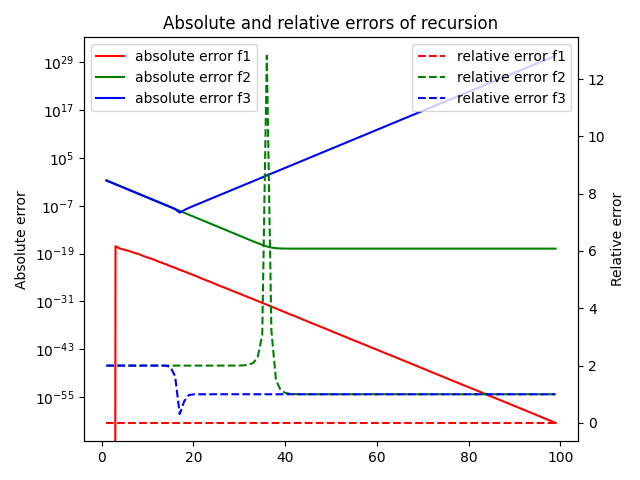
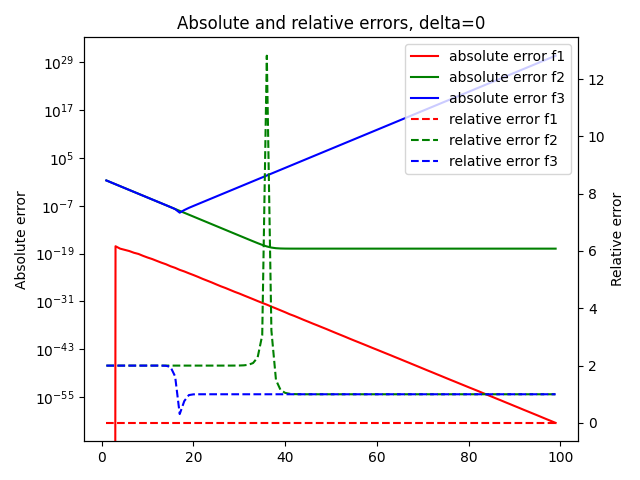
upd

diff --git a/NC/e6/6_1.py b/NC/e6/6_1.py
@@ -1,14 +1,14 @@
 import matplotlib.pyplot as plt
 
-delta = 10 ** (-14)
 
-def f1(n, x0 = 1 + delta):
+def f1(n, x0=1):
     x = x0
     for _ in range(n):
         x = x / 3
     return x
 
-def f2(n, x0 = 1  + delta, x1 = 1/ 3  + delta):
+
+def f2(n, x0=1, x1=1 / 3):
     xm = x0
     xn = x1
     for _ in range(n):
@@ -16,7 +16,8 @@ def f2(n, x0 = 1  + delta, x1 = 1/ 3  + delta):
         xm, xn = xn, x
     return x
 
-def f3(n, x0 = 1  + delta, x1 = 1 / 3  + delta):
+
+def f3(n, x0=1, x1=1 / 3):
     xm = x0
     xn = x1
     for _ in range(n):
@@ -24,46 +25,48 @@ def f3(n, x0 = 1  + delta, x1 = 1 / 3  + delta):
         xm, xn = xn, x
     return x
 
+
 def ex(n):
     return (1 / 3) ** n
 
-absolute1 = []
-absolute2 = []
-absolute3 = []
-relative1 = []
-relative2 = []
-relative3 = []
-fig, ax = plt.subplots()
-ax2 = ax.twinx()
-Ns = list(range(1,100))
-for N in Ns:
-    rec1 = f1(N)
-    rec2 = f2(N)
-    rec3 = f3(N)
-    exact = ex(N)
-    absolute1.append(abs(rec1 - exact))
-    absolute2.append(abs(rec2 - exact))
-    absolute3.append(abs(rec3 - exact))
-    relative1.append(abs((rec1 - exact)/rec1))
-    relative2.append(abs((rec2 - exact)/rec2))
-    relative3.append(abs((rec3 - exact)/rec3))
 
+for delta in [0, 10 ** (-14)]:
+    absolute1 = []
+    absolute2 = []
+    absolute3 = []
+    relative1 = []
+    relative2 = []
+    relative3 = []
+    fig, ax = plt.subplots()
+    ax2 = ax.twinx()
+    Ns = list(range(1, 100))
+    for N in Ns:
+        rec1 = f1(N, x0=1 + delta)
+        rec2 = f2(N, x0=1 + delta, x1=1 / 3 + delta)
+        rec3 = f3(N, x0=1 + delta, x1=1 / 3 + delta)
+        exact = ex(N)
+        absolute1.append(abs(rec1 - exact))
+        absolute2.append(abs(rec2 - exact))
+        absolute3.append(abs(rec3 - exact))
+        relative1.append(abs((rec1 - exact) / rec1))
+        relative2.append(abs((rec2 - exact) / rec2))
+        relative3.append(abs((rec3 - exact) / rec3))
 
-abs1 = ax.semilogy(Ns, absolute1, label='absolute error f1', color="r")
-abs2 = ax.semilogy(Ns, absolute2, label='absolute error f2', color="g")
-abs3 = ax.semilogy(Ns, absolute3, label='absolute error f3', color="b")
+    abs1 = ax.semilogy(Ns, absolute1, label='absolute error f1', color="r")
+    abs2 = ax.semilogy(Ns, absolute2, label='absolute error f2', color="g")
+    abs3 = ax.semilogy(Ns, absolute3, label='absolute error f3', color="b")
 
-rel1 = ax2.plot(Ns, relative1, label='relative error f1', color="r", linestyle="--")
-rel2 = ax2.plot(Ns, relative2, label='relative error f2', color="g", linestyle="--")
-rel3 = ax2.plot(Ns, relative3, label='relative error f3', color="b", linestyle="--")
+    rel1 = ax2.plot(Ns, relative1, label='relative error f1', color="r", linestyle="--")
+    rel2 = ax2.plot(Ns, relative2, label='relative error f2', color="g", linestyle="--")
+    rel3 = ax2.plot(Ns, relative3, label='relative error f3', color="b", linestyle="--")
 
-ax.set_ylabel('Absolute error')
-ax2.set_ylabel('Relative error')
-ax.set_title('Absolute and relative errors of recursion with perturbed initial values')
-ax.legend()
-ax2.legend()
+    ax.set_ylabel('Absolute error')
+    ax2.set_ylabel('Relative error')
+    ax.set_title(f'Absolute and relative errors, delta={delta}')
+    # ax.legend()
+    # ax2.legend()
+    fig.legend(loc="upper right", bbox_to_anchor=(1, 1), bbox_transform=ax.transAxes)
 
+    fig.tight_layout()
 
-fig.tight_layout()
-
-plt.show()
+    plt.show()
